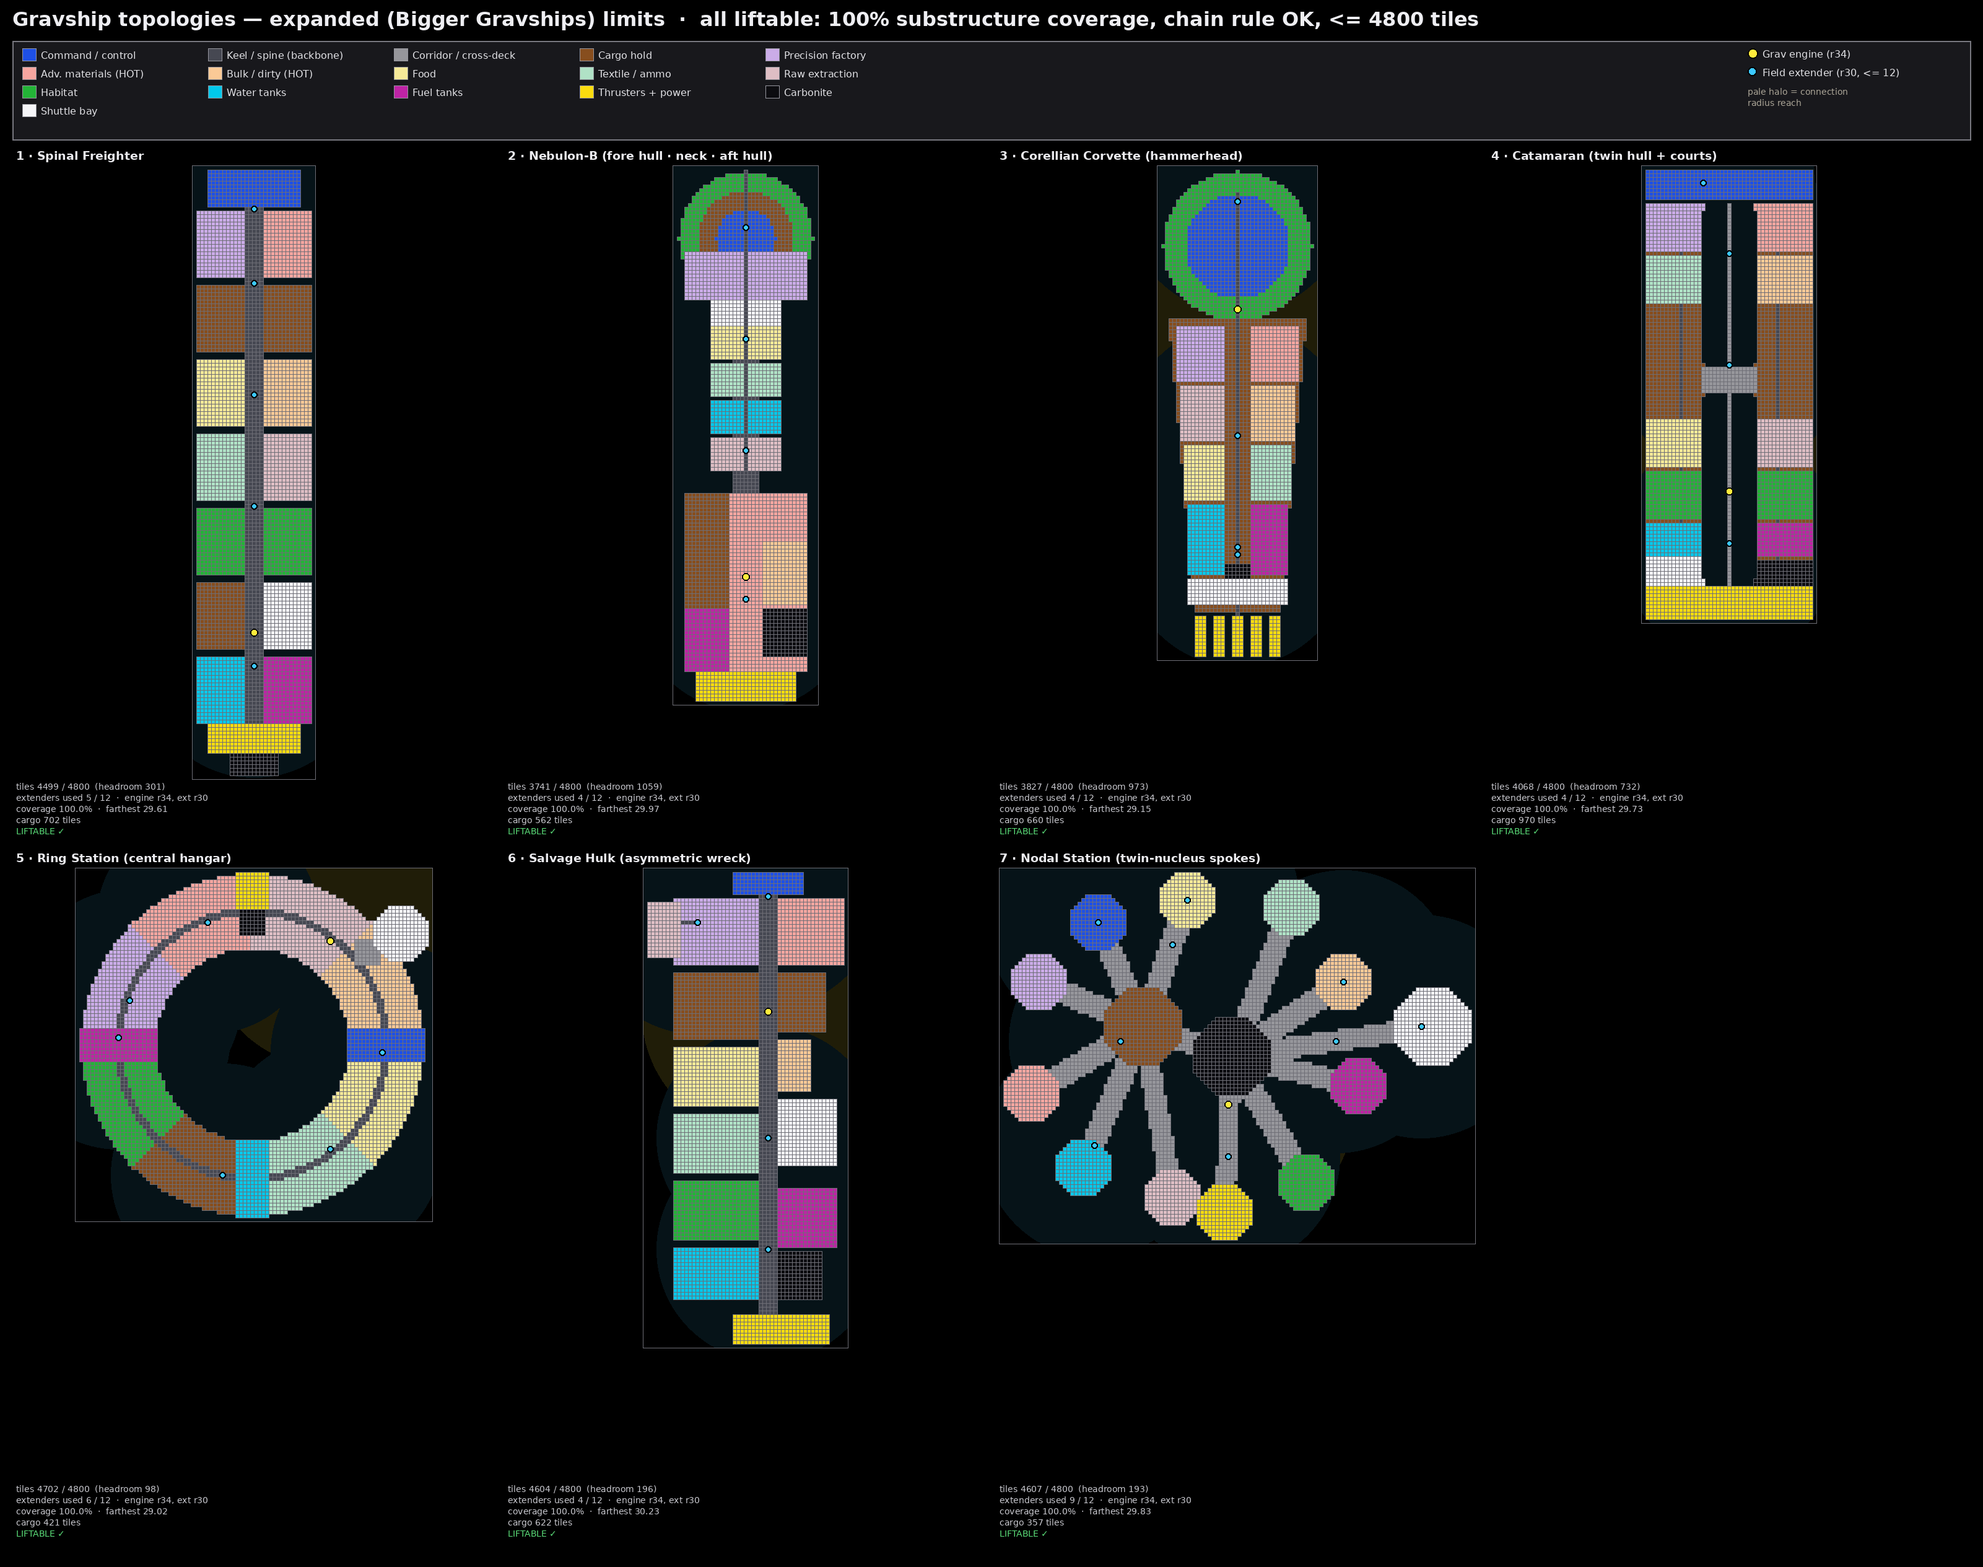
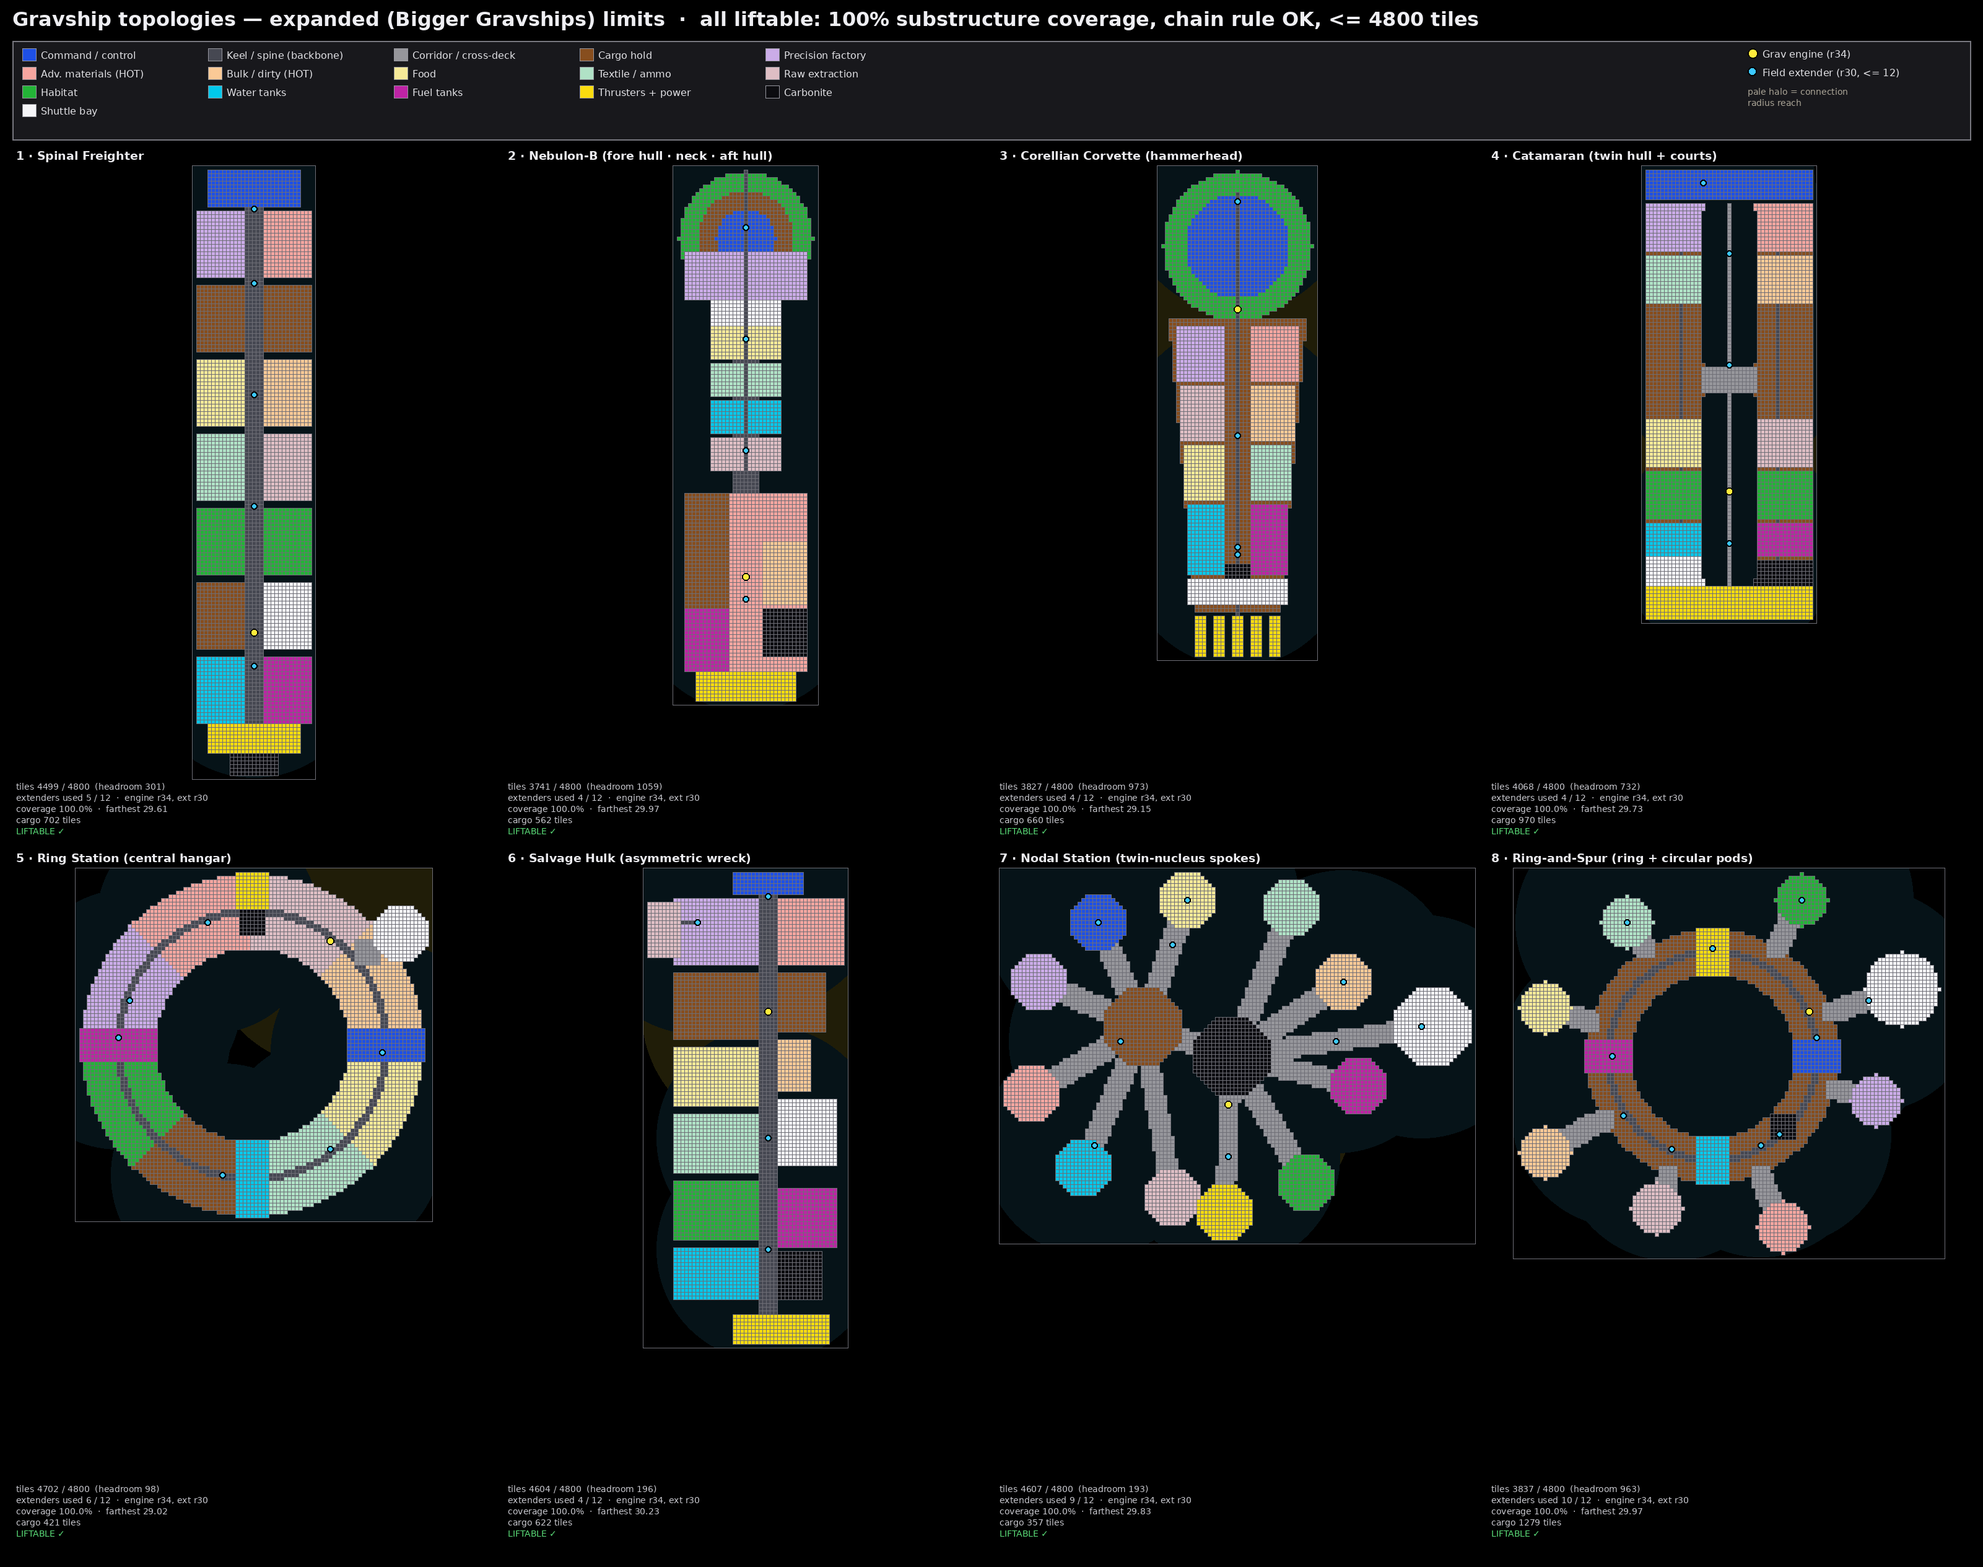
ship designs: add #8 Ring-and-Spur (ring x nodal hybrid)
- Thinner main ring carries core systems (ring body = cargo hold, with
  command/thrusters/water/fuel/carbonite set into the band).
- Eight circular pods burst outward on 5-wide spokes at deliberately
  irregular angles, breaking the ring's symmetry; six factory wings +
  habitat + shuttle, one pod each.
- Enlarged white shuttle pod flung furthest out.
- Verified liftable: 3837 tiles, 10 extenders, 14 regions, 100% coverage.
  Largest cargo of the set (1279); lightest factory (894) = hauler hull.
- Fold #8 into ship_designs.md (entry, table row, tradeoffs, recommendation).

Changed region(s): [[0.7495, 0.5621, 0.9994, 0.8119], [0.7495, 0.9368, 0.812, 0.968]]

diff --git a/player_maps/build_designs.py b/player_maps/build_designs.py
@@ -216,6 +216,46 @@ def d_nodal():
 designs['7_nodal_station']=d_nodal()
 
 # =====================================================================
+# 8 · RING-AND-SPUR  (ring core + semi-random circular pods on spokes)
+#   Hybrid of #5 Ring and #7 Nodal: a THINNER main ring carries the core
+#   systems (cargo body + command/thrusters/water/fuel/carbonite on the band),
+#   and eight CIRCULAR PODS burst outward on 5-wide spokes at jittered angles,
+#   deliberately breaking the ring's symmetry. Each pod = one function (the six
+#   factory wings + habitat + shuttle). One pod (shuttle H) is LARGER and thrown
+#   further out. Angles/offsets are fixed-but-irregular ("semi-random" look,
+#   deterministic so the build reproduces).
+# =====================================================================
+def d_ring_spur():
+    c=Canvas(160,160); cx=cy=80
+    Rout=34; Rin=22; Rmid=(Rout+Rin)//2          # ring band 22..34, midline 28
+    c.ring(cx,cy,Rout,Rin,'G')                   # ring body = cargo
+    # keel on the ring midline (full circle backbone)
+    yy,xx=np.mgrid[0:c.h,0:c.w]; d2=(xx-cx)**2+(yy-cy)**2
+    band=(d2<=(Rmid+1)**2)&(d2>=(Rmid-1)**2)&(c.g!='')
+    c.bb[band]=True; c.g[band]='K'
+    # core system blocks over the ring band (they keep the keel mask beneath)
+    c.rect(cx-4,cy-Rout,cx+4,cy-Rin,'S')         # top thrusters + power
+    c.rect(cx-4,cy+Rin,cx+4,cy+Rout,'W')         # bottom water tanks
+    c.rect(cx-Rout,cy-4,cx-Rin,cy+4,'U')         # left fuel bunkerage
+    c.rect(cx+Rin,cy-4,cx+Rout,cy+4,'M')         # right command / control
+    ta=math.radians(45)                          # carbonite vault tucked on the band
+    tx=int(cx+Rmid*math.cos(ta)); ty=int(cy+Rmid*math.sin(ta))
+    c.rect(tx-3,ty-3,tx+3,ty+3,'T')
+    # eight circular pods at jittered angles (deg, radial offset past midline,
+    # pod radius, code). Shuttle H is bigger and flung further out.
+    pods=[( 15,18, 7,'F'),( 68,22, 7,'E'),(110,16, 7,'A'),(150,24, 7,'B'),
+          (196,19, 7,'C'),(238,15, 7,'D'),(300,20, 7,'R'),(340,26,10,'H')]
+    for (deg,out,pr,code) in pods:
+        a=math.radians(deg)
+        ox=cx+Rout*math.cos(a);        oy=cy+Rout*math.sin(a)          # ring attach
+        px=cx+(Rmid+out)*math.cos(a);  py=cy+(Rmid+out)*math.sin(a)    # pod centre
+        c.spoke(ox,oy,px,py,2,'.')                                     # 5-wide spoke
+        c.disk(int(round(px)),int(round(py)),pr,code)                  # the ball
+        c.backbone_rect(int(round(px)),int(round(py)),int(round(px)),int(round(py)))
+    c.crop(); return c
+designs['8_ring_spur']=d_ring_spur()
+
+# =====================================================================
 report={}
 for name,c in designs.items():
     rep=place_and_verify(c)

diff --git a/player_maps/render_designs.py b/player_maps/render_designs.py
@@ -6,14 +6,16 @@ from PIL import Image, ImageDraw, ImageFont
 from ship_designs import COL, LABEL, R_ENG, R_EXT, CAP, N_EXT
 
 NAMES=['1_spinal_freighter','2_nebulon_b','3_corellian_corvette',
-       '4_catamaran_courtyard','5_ring_station','6_salvage_hulk','7_nodal_station']
+       '4_catamaran_courtyard','5_ring_station','6_salvage_hulk','7_nodal_station',
+       '8_ring_spur']
 TITLES={'1_spinal_freighter':'1 · Spinal Freighter',
         '2_nebulon_b':'2 · Nebulon-B (fore hull · neck · aft hull)',
         '3_corellian_corvette':'3 · Corellian Corvette (hammerhead)',
         '4_catamaran_courtyard':'4 · Catamaran (twin hull + courts)',
         '5_ring_station':'5 · Ring Station (central hangar)',
         '6_salvage_hulk':'6 · Salvage Hulk (asymmetric wreck)',
-        '7_nodal_station':'7 · Nodal Station (twin-nucleus spokes)'}
+        '7_nodal_station':'7 · Nodal Station (twin-nucleus spokes)',
+        '8_ring_spur':'8 · Ring-and-Spur (ring + circular pods)'}
 report=json.load(open('designs_report.json'))
 
 def font(sz,bold=True):

diff --git a/ship_designs.md b/ship_designs.md
@@ -8,8 +8,8 @@ feedstock progression in `ship_deck_plan.md`, never by the tile cap. This doc ow
 MENU; `ship_deck_plan.md` still owns the repair-progression / heat doctrine that any chosen hull
 inherits._
 
-> **Deliverable image:** `player_maps/ship_designs_comparison.png` (seven panels, coverage halos, stats).
-> **Verifier:** `player_maps/ship_designs.py` + `build_designs.py` (regenerates + re-checks all seven).
+> **Deliverable image:** `player_maps/ship_designs_comparison.png` (eight panels, coverage halos, stats).
+> **Verifier:** `player_maps/ship_designs.py` + `build_designs.py` (regenerates + re-checks all eight).
 > **Renderer:** `player_maps/render_designs.py`.
 
 ---
@@ -28,6 +28,10 @@ inherits._
   3. Added **#7 Nodal Station** — twin central nuclei (cargo + carbonite) radiating asymmetric
      spoke-corridors to exterior octagon "cells", shuttle dock on the longest spoke.
   - Net: **seven designs**, all carrying **14 mandatory regions**, all verified liftable.
+- **2026-08-06 (ring/nodal hybrid pass):** Added **#8 Ring-and-Spur** — a Ring × Nodal hybrid: a
+  thinner main ring holding the core systems, with eight **circular pods** bursting outward on
+  5-wide spokes at deliberately irregular ("semi-random") angles, one enlarged pod = the shuttle
+  bay, thrown furthest out. Net: **eight designs**, all 14 regions, all verified liftable.
 
 ---
 
@@ -41,7 +45,7 @@ inherits._
 **Caveat — provenance of the expanded numbers.** These are *generous assumed* values, chosen to
 open up the authoring space, **not** yet read from the mod. The mod's real slider ranges were
 requested via Fetcher (`2026-08-06_bigger_gravships_ranges`); when that lands I'll re-validate all
-seven against the true min/max. The verifier is parameterized (`ship_designs.py` top block), so
+eight against the true min/max. The verifier is parameterized (`ship_designs.py` top block), so
 re-checking against real numbers is a one-line change and a re-run. This is an **assumption**, not
 established evidence — flagged so you can weight it accordingly.
 
@@ -60,7 +64,7 @@ Two independent constraints, both verified per design (not assumed):
    extender count is how many are actually *needed*), then reports uncovered tiles and the
    farthest-tile distance.
 
-**All seven below report: 0 uncovered tiles, chain rule satisfied, tiles ≤ 4,800, and every
+**All eight below report: 0 uncovered tiles, chain rule satisfied, tiles ≤ 4,800, and every
 required area present.** They are all genuinely liftable.
 
 Every design carries the **full 14-region set**, checked programmatically — the build fails and
@@ -108,7 +112,7 @@ is why it burns the most extenders (9).
 
 ---
 
-## The seven
+## The eight
 
 Numbers below are from `designs_report.json` (regenerable via `build_designs.py`). "Factory" = all
 six Factory_lore wings combined (A+B+C+D+E+F). Every design now carries all 14 regions (verified).
@@ -216,6 +220,29 @@ nuclei sit close, so which spokes belong to which hub isn't obvious at a glance 
 the hubs apart). Best if: the hub-and-spoke station aesthetic is what excites you and you like the
 strict one-cell-per-function modularity.
 
+### 8 · Ring-and-Spur — *ring core with semi-random circular pods*
+**3,837 tiles · 963 headroom · 10 extenders · cargo 1,279 · factory 894 · shuttle 317 · farthest 29.97**
+
+A **hybrid of #5 Ring and #7 Nodal.** A *thinner* main ring carries the core systems (the ring body
+is one big cargo hold, with command / thrusters+power / water / fuel blocks and a carbonite vault
+set into the band), and **eight circular pods burst outward** on 5-wide spokes at deliberately
+**irregular angles** — the six factory wings + habitat + the shuttle — so the ring's symmetry is
+broken into something that reads as an organically-grown station rather than a machined torus. One
+pod (the **white shuttle bay**) is **larger and flung furthest out**. The angles and radial offsets
+are fixed-but-jittered (deterministic, so the build reproduces), giving the "semi-random" look you
+asked for. **Largest cargo of the whole set (1,279)** — the entire ring body is hold.
+
+For: keeps the monumental ring silhouette *and* the modular-pod isolability of the Nodal station,
+while the asymmetry makes it distinctive; each pod is a clean isolatable unit (maps onto the
+wing-by-wing repair gate); the ring's inner *and* outer walls are exterior (double vent/defense
+edge) and the pods add even more perimeter; enormous cargo; lots of coverage headroom (963). Against:
+burns many extenders (10 — each pod tip needs a node in reach); the smallest factory allocation of
+any design (894 — most floor went to the cargo ring and to corridors), so this is a *hauler/trader*
+hull more than an industrial one; circumferential hauls around the ring unless you bridge the core;
+the pods are single-purpose and a bit cramped (radius-7 balls ≈ a modest room each). Best if: you
+love the ring look but found #5 too symmetric, and you want maximum storage with modular outlying
+pods — accepting a lighter factory.
+
 ---
 
 ## Decision translation
@@ -235,37 +262,44 @@ doctrine, and campaign hooks apply to *whichever* you pick.
 | 5 | Ring station | 4702 (98) | 6 | 421 | **2537** | 185 | no | **hangar** | hardest (ring) |
 | 6 | Salvage hulk | 4604 (196) | 4 | 622 | 1700 | 288 | **yes (L/R)** | derelict gap | medium |
 | 7 | Nodal station | 4607 (193) | 9 | 357 | 1107 | **357** | **yes (spokes)** | **inter-spoke** | hard (spokes) |
+| 8 | Ring-and-spur | 3837 (963) | 10 | **1279** | 894 | 317 | **yes (pods)** | **ring core + gaps** | hard (ring+pods) |
 
-**Tradeoffs, distilled:** *most cargo* → **4** (Catamaran), then **1**; *most factory* → **5**
-(Ring), then **2** (Nebulon-B); *most shuttle capacity* → **7** and **6**; *asymmetry* → **6**
-(side-to-side wreck), **7** (radial spokes), **2** (fore/aft); *courtyard / open space* → **4**
-(twin courts), **5** (hangar), **7** (inter-spoke voids); *most on-theme wreck* → **6**; *most
-iconic Star Wars reading* → **3** (corvette); *easiest to hand-author* → **1**. Coverage slack (room
-to tweak later) is best on **2** (1,059) and **3** (973), tightest on **5** (98).
+**Tradeoffs, distilled:** *most cargo* → **8** (Ring-and-Spur, 1,279), then **4** (Catamaran, 970);
+*most factory* → **5** (Ring), then **2** (Nebulon-B); *most shuttle capacity* → **7** and **6**;
+*asymmetry* → **6** (side-to-side wreck), **7** (radial spokes), **8** (irregular ring pods), **2**
+(fore/aft); *courtyard / open space* → **4** (twin courts), **5** (hangar), **7** (inter-spoke
+voids); *most on-theme wreck* → **6**; *most iconic Star Wars reading* → **3** (corvette); *ring
+silhouette* → **5** (symmetric) or **8** (broken-symmetry); *easiest to hand-author* → **1**.
+Coverage slack (room to tweak later) is best on **2** (1,059), **8** (963) and **3** (973), tightest
+on **5** (98).
 
-**Dependencies:** all seven inherit the substructure math, the `ship_deck_plan.md` repair gate +
-heat doctrine, and the desert / VGE / faction layers. All seven require **Bigger Gravships**
+**Dependencies:** all eight inherit the substructure math, the `ship_deck_plan.md` repair gate +
+heat doctrine, and the desert / VGE / faction layers. All eight require **Bigger Gravships**
 (approved) configured to at least the assumed sliders; **the real slider ceilings are not yet
 confirmed** (Fetcher pending) — if the mod can't reach r34/r30/12/4800, the near-cap designs
-(5, 6, 7) shrink first.
+(5, 6, 7) shrink first. (#8 has lots of slack, so it survives a tighter cap; but its 10 extenders
+would be the first thing to bite if the mod caps `N_EXT` below 12.)
 
 **Principal risks:** (a) the expanded limits are *assumed*, not verified — the Fetcher result could
-force a re-tune (most likely affecting the near-cap designs 5, 6, 7); (b) start-save authoring of a
-large pre-broken hull is still the one true blocker regardless of shape — the ring (5) and the
-spoked station (7) are hardest to hand-place; (c) designs 5–7 have little coverage slack, so any
-later deck-widening needs a re-verify.
+force a re-tune (most likely affecting the near-cap designs 5, 6, 7, and the high-extender designs
+7/8 if `N_EXT` is capped low); (b) start-save authoring of a large pre-broken hull is still the one
+true blocker regardless of shape — the ring (5), the spoked station (7), and the ring-and-spur (8)
+are hardest to hand-place; (c) designs 5–7 have little coverage slack, so any later deck-widening
+needs a re-verify.
 
 **Missing info that would help:** the real Bigger Gravships slider ranges (pending Fetcher); and
-your priority weighting — *maximum cargo* (→4), *maximum factory* (→5/2), *the asymmetry you
-called out* (→6 for side-to-side, 7 for radial), *a playable open courtyard* (→4/5), *the modular
-station look* (→7), or *the most iconic silhouette* (→3).
+your priority weighting — *maximum cargo* (→8, then 4), *maximum factory* (→5/2), *the asymmetry you
+called out* (→6 for side-to-side, 7 for radial, 8 for broken-ring), *a playable open courtyard*
+(→4/5), *the modular station look* (→7/8), or *the most iconic silhouette* (→3).
 
 **Recommendation:** for the crashed-Factory-ship / Jawa-salvage theme, **6 (Salvage Hulk)** remains
 the strongest single pick — its missing/rebuilt section literally *is* the repair story. **7 (Nodal
-Station)** is the boldest new option and maps most cleanly onto the wing-by-wing repair gate (each
-cell is an isolatable unit). If you want the most balanced conventional ship, **3 (Corvette)** or
-**4 (Catamaran)**. All seven are proven to fly; none is wrong — and I can **hybridize** (e.g. a
-salvage-hulk asymmetry with nodal cells on the rebuilt side).
+Station)** and **8 (Ring-and-Spur)** are the boldest station-style options and map cleanly onto the
+wing-by-wing repair gate (each pod/cell is an isolatable unit); pick 8 over 7 if you want a ring
+silhouette and maximum cargo, 7 if you want the twin-nucleus industrial heart. If you want the most
+balanced conventional ship, **3 (Corvette)** or **4 (Catamaran)**. All eight are proven to fly; none
+is wrong — and I can **hybridize** further (e.g. a salvage-hulk asymmetry with nodal cells on the
+rebuilt side).
 
 **Recommended next step:** pick one (or ask for a hybrid), and I'll draw the tile-level interior
 blueprint for it against the cap, then fold the choice back into `ship_deck_plan.md` [DECIDE B].
@@ -278,7 +312,7 @@ authoring.
 
 - `player_maps/ship_designs.py` — Canvas + coverage verifier + shared palette (`COL`/`LABEL`) +
   limit constants (VANILLA vs EXPANDED). New helpers this pass: `octagon()`, `spoke()`.
-- `player_maps/build_designs.py` — the 7 design functions, the 14-region `REQUIRED` check, runs
+- `player_maps/build_designs.py` — the 8 design functions, the 14-region `REQUIRED` check, runs
   verify + tally, writes grids (`design_*.npy`), placements (`design_*_place.json`), and
   `designs_report.json`.
 - `player_maps/render_designs.py` — composites the black comparison sheet with legend + per-panel
